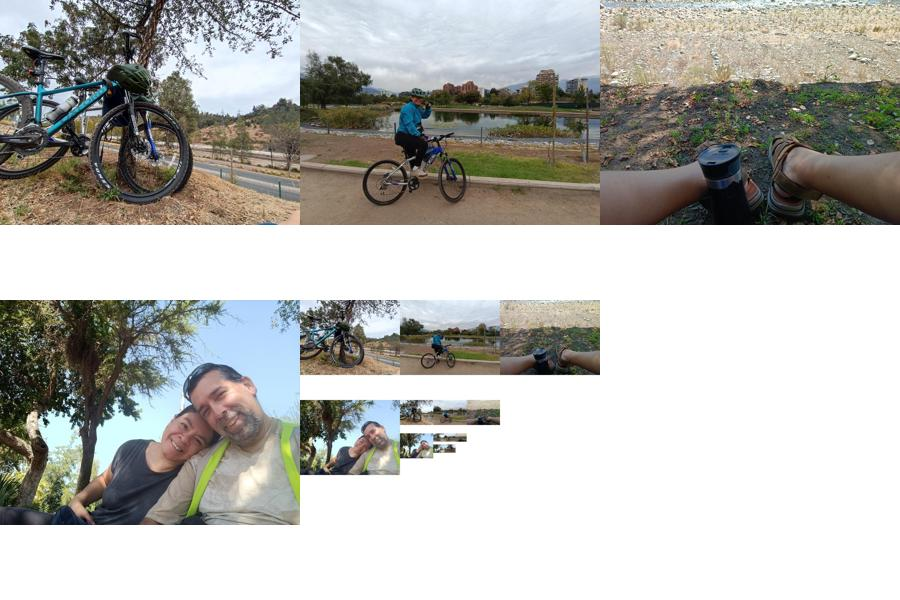
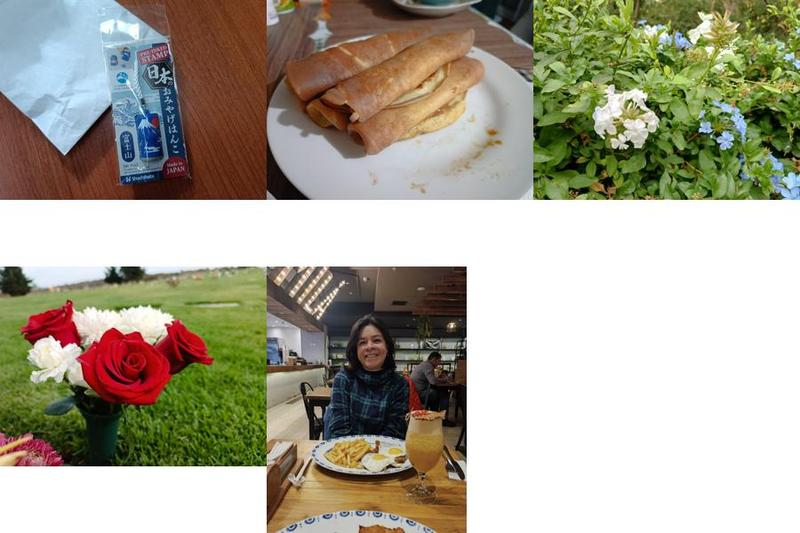
docs: actualiza imagenes que estaban repetidas

diff --git a/posts/galeria-2026_06_06.html b/posts/galeria-2026_06_06.html
@@ -11,7 +11,7 @@
   <meta property="og:image:type" content="image/jpeg" />
   <meta property="og:image:width" content="1200" />
   <meta property="og:image:height" content="800" />
-  <title>Galería resumen este primer semestre | https://fotosycaptura.cl
+  <title>Galería 2026_06_06 | https://fotosycaptura.cl
 </title>
   <link rel="canonical" href="https://fotosycaptura.cl/posts/galeria-2026_06_06.html">
 
@@ -29,7 +29,7 @@
   <link rel="stylesheet" href="https://fotosycaptura.cl/theme/css/style.css">
 
 
-<meta name="description" content="Hola a todos, esta es una galería resumen de lo fotografiado y ¿Por qué no? De algunas actividades... Espero que les guste...">
+<meta name="description" content="Hola a todos, esta es una galería de lo fotografiado y ¿Por qué no? De algunas actividades... Espero que les guste...">
 </head>
 
 <body>
@@ -66,13 +66,13 @@
 
   <div class="main">
     <div class="container">
-      <h1>Galería resumen este primer semestre
+      <h1>Galería 2026_06_06
 </h1>
       <hr>
 <article class="article">
   <header>
     <ul class="list-inline">
-      <li class="list-inline-item text-muted" title="2026-06-06T11:35:00-04:00">
+      <li class="list-inline-item text-muted" title="2026-06-06T00:00:00-04:00">
         <i class="fa fa-clock-o"></i>
         2026, sáb 06 junio
       </li>
@@ -89,36 +89,36 @@
     </ul>
   </header>
   <div class="content">
-    <h1 id="resumen">Resumen</h1>
+    <h2 id="resumen">Resumen</h2>
 <p>Hola a todos, esta es una galería de lo fotografiado y ¿Por qué no? De algunas actividades... Espero que les guste...</p>
-<p>Bueno, lo siguiente es mi primer <code>Hanko</code>, traído directamente desde Japón... ¿Qué les parece? 
-<img alt="Resumen de estos días" src="/media/2026/junio/2026_06_06/IMG_20260316_094716.jpg" style="width: auto; max-width: 100% !important;" />  </p>
+<p>Bueno, lo siguiente es mi primer Hanko, traído directamente desde Japón... ¿Qué les parece? </p>
+<p><img alt="Resumen de estos días" src="/media/2026/junio/2026_06_06/semestre1-01.jpg" style="width: auto; max-width: 100% !important;" />  </p>
 <p>También me trajeron un dulce... Es increíble que este tipo de dulces existan y que acá no hayan...</p>
-<p><img alt="Resumen de estos días" src="/media/2026/junio/2026_06_06/IMG_20260316_100351.jpg" style="width: auto; max-width: 100% !important;" />  </p>
+<p><img alt="Resumen de estos días" src="/media/2026/junio/2026_06_06/semestre1-02.jpg" style="width: auto; max-width: 100% !important;" />  </p>
 <p>Siempre hay tiempo para un cafecito por ahí...</p>
-<p><img alt="Resumen de estos días" src="/media/2026/junio/2026_06_06/IMG_20260316_134608.jpg" style="width: auto; max-width: 100% !important;" />  </p>
+<p><img alt="Resumen de estos días" src="/media/2026/junio/2026_06_06/semestre1-03.jpg" style="width: auto; max-width: 100% !important;" />  </p>
 <p>La negra estaba sin energía, así que hubo que cargarla... </p>
-<p><img alt="Resumen de estos días" src="/media/2026/junio/2026_06_06/IMG_20260321_103029.jpg" style="width: auto; max-width: 100% !important;" />  </p>
-<p>Y estas fotitos son de un paseo que realizamos con mi esposa, espero que les guste... </p>
-<p><img alt="Resumen de estos días" src="/media/2026/junio/2026_06_06/IMG_20260322_133401.jpg" style="width: auto; max-width: 100% !important;" />  </p>
-<p><img alt="Resumen de estos días" src="/media/2026/junio/2026_06_06/IMG_20260322_133410.jpg" style="width: auto; max-width: 100% !important;" />  </p>
-<p><img alt="Resumen de estos días" src="/media/2026/junio/2026_06_06/IMG_20260322_133432.jpg" style="width: auto; max-width: 100% !important;" />  </p>
-<p><img alt="Resumen de estos días" src="/media/2026/junio/2026_06_06/IMG_20260322_135053.jpg" style="width: auto; max-width: 100% !important;" />  </p>
-<p><img alt="Resumen de estos días" src="/media/2026/junio/2026_06_06/IMG_20260322_135103.jpg" style="width: auto; max-width: 100% !important;" />  </p>
-<p><img alt="Resumen de estos días" src="/media/2026/junio/2026_06_06/IMG_20260322_135721.jpg" style="width: auto; max-width: 100% !important;" />  </p>
-<p><img alt="Resumen de estos días" src="/media/2026/junio/2026_06_06/IMG_20260322_140047.jpg" style="width: auto; max-width: 100% !important;" />  </p>
-<p><img alt="Resumen de estos días" src="/media/2026/junio/2026_06_06/IMG_20260322_140118.jpg" style="width: auto; max-width: 100% !important;" />  </p>
-<p><img alt="Resumen de estos días" src="/media/2026/junio/2026_06_06/IMG_20260322_141051.jpg" style="width: auto; max-width: 100% !important;" />  </p>
-<p><img alt="Resumen de estos días" src="/media/2026/junio/2026_06_06/IMG_20260322_141103.jpg" style="width: auto; max-width: 100% !important;" />  </p>
-<p><img alt="Resumen de estos días" src="/media/2026/junio/2026_06_06/IMG_20260322_141145.jpg" style="width: auto; max-width: 100% !important;" />  </p>
-<p><img alt="Resumen de estos días" src="/media/2026/junio/2026_06_06/IMG_20260405_133100.jpg" style="width: auto; max-width: 100% !important;" />  </p>
-<p><img alt="Resumen de estos días" src="/media/2026/junio/2026_06_06/IMG_20260405_133110.jpg" style="width: auto; max-width: 100% !important;" />  </p>
-<p><img alt="Resumen de estos días" src="/media/2026/junio/2026_06_06/IMG_20260405_133126.jpg" style="width: auto; max-width: 100% !important;" />  </p>
-<p><img alt="Resumen de estos días" src="/media/2026/junio/2026_06_06/IMG_20260405_133133.jpg" style="width: auto; max-width: 100% !important;" />  </p>
-<p><img alt="Resumen de estos días" src="/media/2026/junio/2026_06_06/IMG_20260405_133139.jpg" style="width: auto; max-width: 100% !important;" />  </p>
-<p><img alt="Resumen de estos días" src="/media/2026/junio/2026_06_06/IMG_20260405_133143.jpg" style="width: auto; max-width: 100% !important;" />  </p>
-<p><img alt="Resumen de estos días" src="/media/2026/junio/2026_06_06/IMG_20260405_133156.jpg" style="width: auto; max-width: 100% !important;" />  </p>
-<p><img alt="Resumen de estos días" src="/media/2026/junio/2026_06_06/IMG_20260405_141315.jpg" style="width: auto; max-width: 100% !important;" />  </p>
+<p><img alt="Resumen de estos días" src="/media/2026/junio/2026_06_06/semestre1-04.jpg" style="width: auto; max-width: 100% !important;" />  </p>
+<p>Y, también hice algo de postre... </p>
+<p><img alt="Resumen de estos días" src="/media/2026/junio/2026_06_06/semestre1-05.jpg" style="width: auto; max-width: 100% !important;" />  </p>
+<p><img alt="Resumen de estos días" src="/media/2026/junio/2026_06_06/semestre1-06.jpg" style="width: auto; max-width: 100% !important;" />  </p>
+<p><img alt="Resumen de estos días" src="/media/2026/junio/2026_06_06/semestre1-07.jpg" style="width: auto; max-width: 100% !important;" />  </p>
+<p><img alt="Resumen de estos días" src="/media/2026/junio/2026_06_06/semestre1-08.jpg" style="width: auto; max-width: 100% !important;" />  </p>
+<p><img alt="Resumen de estos días" src="/media/2026/junio/2026_06_06/semestre1-09.jpg" style="width: auto; max-width: 100% !important;" />  </p>
+<p><img alt="Resumen de estos días" src="/media/2026/junio/2026_06_06/semestre1-10.jpg" style="width: auto; max-width: 100% !important;" />  </p>
+<p><img alt="Resumen de estos días" src="/media/2026/junio/2026_06_06/semestre1-11.jpg" style="width: auto; max-width: 100% !important;" />  </p>
+<p><img alt="Resumen de estos días" src="/media/2026/junio/2026_06_06/semestre1-12.jpg" style="width: auto; max-width: 100% !important;" />  </p>
+<p><img alt="Resumen de estos días" src="/media/2026/junio/2026_06_06/semestre1-13.jpg" style="width: auto; max-width: 100% !important;" />  </p>
+<p><img alt="Resumen de estos días" src="/media/2026/junio/2026_06_06/semestre1-14.jpg" style="width: auto; max-width: 100% !important;" />  </p>
+<p><img alt="Resumen de estos días" src="/media/2026/junio/2026_06_06/semestre1-15.jpg" style="width: auto; max-width: 100% !important;" />  </p>
+<p><img alt="Resumen de estos días" src="/media/2026/junio/2026_06_06/semestre1-16.jpg" style="width: auto; max-width: 100% !important;" />  </p>
+<p><img alt="Resumen de estos días" src="/media/2026/junio/2026_06_06/semestre1-17.jpg" style="width: auto; max-width: 100% !important;" />  </p>
+<p><img alt="Resumen de estos días" src="/media/2026/junio/2026_06_06/semestre1-18.jpg" style="width: auto; max-width: 100% !important;" />  </p>
+<p><img alt="Resumen de estos días" src="/media/2026/junio/2026_06_06/semestre1-19.jpg" style="width: auto; max-width: 100% !important;" />  </p>
+<p><img alt="Resumen de estos días" src="/media/2026/junio/2026_06_06/semestre1-20.jpg" style="width: auto; max-width: 100% !important;" />  </p>
+<p><img alt="Resumen de estos días" src="/media/2026/junio/2026_06_06/semestre1-21.jpg" style="width: auto; max-width: 100% !important;" />  </p>
+<p><img alt="Resumen de estos días" src="/media/2026/junio/2026_06_06/semestre1-22.jpg" style="width: auto; max-width: 100% !important;" />  </p>
+<p><img alt="Resumen de estos días" src="/media/2026/junio/2026_06_06/semestre1-23.jpg" style="width: auto; max-width: 100% !important;" />  </p>
   </div>
 </article>
     </div>

diff --git a/author/fotosycaptura.html b/author/fotosycaptura.html
@@ -72,7 +72,7 @@
 <article class="row teaser">
   <header class="col-sm-4 text-muted">
     <ul>
-      <li title="2026-06-06T11:35:00-04:00">
+      <li title="2026-06-06T00:00:00-04:00">
         <i class="fa fa-clock-o"></i>
         2026, sáb 06 junio
       </li>
@@ -86,9 +86,9 @@
     </ul>
   </header>
   <div class="col-sm-8">
-    <h4 class="title"><a href="https://fotosycaptura.cl/posts/galeria-2026_06_06.html">Galería resumen este primer semestre</a></h4>
+    <h4 class="title"><a href="https://fotosycaptura.cl/posts/galeria-2026_06_06.html">Galería 2026_06_06</a></h4>
     <div class="content">
-<img src="/media/2026/junio/2026_06_06/cover.jpg" alt="" style="width: auto; max-width: 100% !important;"/><br /> Hola a todos, esta es una galería resumen de lo fotografiado y ¿Por qué no? De algunas actividades... Espero que les guste...
+<img src="/media/2026/junio/2026_06_06/cover.jpg" alt="" style="width: auto; max-width: 100% !important;"/><br /> Hola a todos, esta es una galería de lo fotografiado y ¿Por qué no? De algunas actividades... Espero que les guste...
     </div>
   </div>
 </article>

diff --git a/blog.html b/blog.html
@@ -72,7 +72,7 @@
 <article class="row teaser">
   <header class="col-sm-4 text-muted">
     <ul>
-      <li title="2026-06-06T11:35:00-04:00">
+      <li title="2026-06-06T00:00:00-04:00">
         <i class="fa fa-clock-o"></i>
         2026, sáb 06 junio
       </li>
@@ -86,9 +86,9 @@
     </ul>
   </header>
   <div class="col-sm-8">
-    <h4 class="title"><a href="https://fotosycaptura.cl/posts/galeria-2026_06_06.html">Galería resumen este primer semestre</a></h4>
+    <h4 class="title"><a href="https://fotosycaptura.cl/posts/galeria-2026_06_06.html">Galería 2026_06_06</a></h4>
     <div class="content">
-<img src="/media/2026/junio/2026_06_06/cover.jpg" alt="" style="width: auto; max-width: 100% !important;"/><br /> Hola a todos, esta es una galería resumen de lo fotografiado y ¿Por qué no? De algunas actividades... Espero que les guste...
+<img src="/media/2026/junio/2026_06_06/cover.jpg" alt="" style="width: auto; max-width: 100% !important;"/><br /> Hola a todos, esta es una galería de lo fotografiado y ¿Por qué no? De algunas actividades... Espero que les guste...
     </div>
   </div>
 </article>

diff --git a/category/galeria.html b/category/galeria.html
@@ -72,7 +72,7 @@
 <article class="row teaser">
   <header class="col-sm-4 text-muted">
     <ul>
-      <li title="2026-06-06T11:35:00-04:00">
+      <li title="2026-06-06T00:00:00-04:00">
         <i class="fa fa-clock-o"></i>
         2026, sáb 06 junio
       </li>
@@ -86,9 +86,9 @@
     </ul>
   </header>
   <div class="col-sm-8">
-    <h4 class="title"><a href="https://fotosycaptura.cl/posts/galeria-2026_06_06.html">Galería resumen este primer semestre</a></h4>
+    <h4 class="title"><a href="https://fotosycaptura.cl/posts/galeria-2026_06_06.html">Galería 2026_06_06</a></h4>
     <div class="content">
-<img src="/media/2026/junio/2026_06_06/cover.jpg" alt="" style="width: auto; max-width: 100% !important;"/><br /> Hola a todos, esta es una galería resumen de lo fotografiado y ¿Por qué no? De algunas actividades... Espero que les guste...
+<img src="/media/2026/junio/2026_06_06/cover.jpg" alt="" style="width: auto; max-width: 100% !important;"/><br /> Hola a todos, esta es una galería de lo fotografiado y ¿Por qué no? De algunas actividades... Espero que les guste...
     </div>
   </div>
 </article>

diff --git a/tag/fotos.html b/tag/fotos.html
@@ -72,7 +72,7 @@
 <article class="row teaser">
   <header class="col-sm-4 text-muted">
     <ul>
-      <li title="2026-06-06T11:35:00-04:00">
+      <li title="2026-06-06T00:00:00-04:00">
         <i class="fa fa-clock-o"></i>
         2026, sáb 06 junio
       </li>
@@ -86,9 +86,9 @@
     </ul>
   </header>
   <div class="col-sm-8">
-    <h4 class="title"><a href="https://fotosycaptura.cl/posts/galeria-2026_06_06.html">Galería resumen este primer semestre</a></h4>
+    <h4 class="title"><a href="https://fotosycaptura.cl/posts/galeria-2026_06_06.html">Galería 2026_06_06</a></h4>
     <div class="content">
-<img src="/media/2026/junio/2026_06_06/cover.jpg" alt="" style="width: auto; max-width: 100% !important;"/><br /> Hola a todos, esta es una galería resumen de lo fotografiado y ¿Por qué no? De algunas actividades... Espero que les guste...
+<img src="/media/2026/junio/2026_06_06/cover.jpg" alt="" style="width: auto; max-width: 100% !important;"/><br /> Hola a todos, esta es una galería de lo fotografiado y ¿Por qué no? De algunas actividades... Espero que les guste...
     </div>
   </div>
 </article>

diff --git a/tag/galeria.html b/tag/galeria.html
@@ -72,7 +72,7 @@
 <article class="row teaser">
   <header class="col-sm-4 text-muted">
     <ul>
-      <li title="2026-06-06T11:35:00-04:00">
+      <li title="2026-06-06T00:00:00-04:00">
         <i class="fa fa-clock-o"></i>
         2026, sáb 06 junio
       </li>
@@ -86,9 +86,9 @@
     </ul>
   </header>
   <div class="col-sm-8">
-    <h4 class="title"><a href="https://fotosycaptura.cl/posts/galeria-2026_06_06.html">Galería resumen este primer semestre</a></h4>
+    <h4 class="title"><a href="https://fotosycaptura.cl/posts/galeria-2026_06_06.html">Galería 2026_06_06</a></h4>
     <div class="content">
-<img src="/media/2026/junio/2026_06_06/cover.jpg" alt="" style="width: auto; max-width: 100% !important;"/><br /> Hola a todos, esta es una galería resumen de lo fotografiado y ¿Por qué no? De algunas actividades... Espero que les guste...
+<img src="/media/2026/junio/2026_06_06/cover.jpg" alt="" style="width: auto; max-width: 100% !important;"/><br /> Hola a todos, esta es una galería de lo fotografiado y ¿Por qué no? De algunas actividades... Espero que les guste...
     </div>
   </div>
 </article>

diff --git a/archives.html b/archives.html
@@ -73,7 +73,7 @@
   <h3>Año 2026</h3>
   <dl class="row">
               <dt class="col-sm-4">2026, sáb 06 junio</dt>
-              <dd class="col-sm-8"><a href="https://fotosycaptura.cl/posts/galeria-2026_06_06.html">Galería resumen este primer semestre</a></dd>
+              <dd class="col-sm-8"><a href="https://fotosycaptura.cl/posts/galeria-2026_06_06.html">Galería 2026_06_06</a></dd>
               <dt class="col-sm-4">2026, mié 03 junio</dt>
               <dd class="col-sm-8"><a href="https://fotosycaptura.cl/posts/2026-06-03-tablas-en-org-mode.html">Org Mode, tablas y exportación: cuando una hoja de cálculo se encuentra con Python</a></dd>
               <dt class="col-sm-4">2026, lun 18 mayo</dt>
